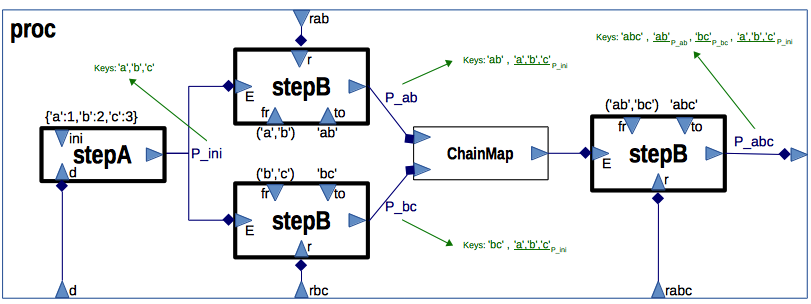
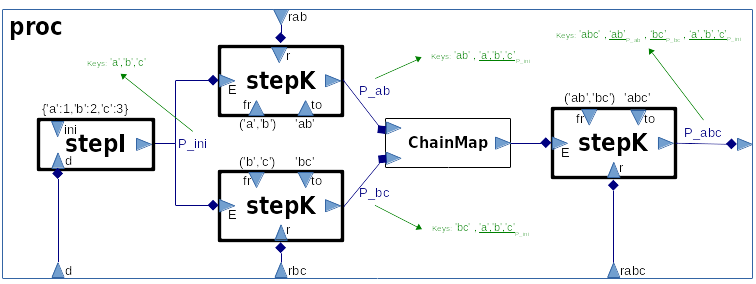
Updates

diff --git a/cache.py b/cache.py
@@ -27,7 +27,7 @@ To illustrate the cross-process capability of the cache, function :func:`demo` r
 
 * Function :func:`vfunc` is assigned a version (here the process id, just to show the behaviour when the version changes). Therefore, the persistent cache creates distinct cache blocks for the distinct versions, and there is no reuse of the cached values from one run to the other.
 
-* Function :func:`proc` builds a closed symbolic expression (instance of :class:`Expr`) which implements the following workflow based on the two cached functions :func:`stepA` and :func:`stepB`.
+* Function :func:`proc` builds a closed symbolic expression (instance of :class:`Expr`) which implements the following workflow based on the two cached functions :func:`stepI` and :func:`stepK`.
 
   .. image:: cache.png
      :scale: 65%
@@ -35,10 +35,10 @@ To illustrate the cross-process capability of the cache, function :func:`demo` r
 
   It consists of 4 tasks:
 
-  * `P_ini`: calls :func:`stepA` which returns an input dictionary with keys `'a'`, `'b'`, `'c'` modified by some constant `d`
-  * `P_ab`: calls :func:`stepB` which chains to the result of the first task (`P_ini`) a dictionary with key `'ab'` assigned the sum of values of keys `'a'` and `'b'` plus some constant `rab`
-  * `P_bc`: calls :func:`stepB` which chains to the result of the first task (`P_ini`) a dictionary with key `'bc'` assigned the sum of values of keys `'b'` and `'c'` plus some constant `rbc`
-  * `P_abc`: calls :func:`stepB` which chains to the chained results of the last two tasks (`P_ab,P_bc`) a dictionary with key `'abc'` assigned the sum of values of keys `'ab'` and `'bc'` plus some constant `rabc`
+  * `P_ini`: calls :func:`stepI` which returns an input dictionary with keys `'a'`, `'b'`, `'c'` modified by some constant `d`
+  * `P_ab`: calls :func:`stepK` which chains to the result of the first task (`P_ini`) a dictionary with key `'ab'` assigned the sum of values of keys `'a'` and `'b'` plus some constant `rab`
+  * `P_bc`: calls :func:`stepK` which chains to the result of the first task (`P_ini`) a dictionary with key `'bc'` assigned the sum of values of keys `'b'` and `'c'` plus some constant `rbc`
+  * `P_abc`: calls :func:`stepK` which chains to the chained results of the last two tasks (`P_ab,P_bc`) a dictionary with key `'abc'` assigned the sum of values of keys `'ab'` and `'bc'` plus some constant `rabc`
 
   Of course, cacheing such simple operations is not very interesting, but the purpose of the example is to illustrate cacheing in the presence of dependencies between arbitrary tasks which could be much more complex (and computationaly heavy). The logged trace of the computation illustrated in the diagram below shows how the evaluation mechanism of symbolic expressions (called incarnation) in class :class:`MapExpr` and that of map chaining in class :class:`collections.ChainMap` interact with persistent cacheing to provide a flexible workflow implementation.
 
@@ -61,11 +61,11 @@ When a cache cell is created by an invocation, any versioned function which appe
 * the calling function ``f`` has a new version;
 * the argument function ``g`` has a new version.
 
-In the example above, the first argument of the persistently cached function :func:`stepB` is typically a symbolic expression (instance of class :class:`Expr`) which contains references at different depths to other functions, in particular :func:`stepA`. So if the latter were versioned and its version changed, the corresponding cache cells for function :func:`stepB` would be missed, even if the version of :func:`stepB` were not changed.
+In the example above, the first argument of the persistently cached function :func:`stepK` is typically a symbolic expression (instance of class :class:`Expr`) which contains references at different depths to other functions, in particular :func:`stepI`. So if the latter were versioned and its version changed, the corresponding cache cells for function :func:`stepK` would be missed, even if the version of :func:`stepK` were not changed.
 
 Persistent cacheing with symbolic expressions for workflow task execution
 .........................................................................
-In a typical workflow task executor (see e.g. function :func:`stepB` in the example above), the first argument *E* is typically an instance of :class:`MapExpr` whose configuration describes all the previous tasks in the workflow. Its incarnation is the set of key-value pairs computed by the previous tasks. The new task typically seeks to enrich this set with some new key-value pairs, based on those of *E*. Since *E* is immutable, it is not possible to directly update it. There are two possibilities: convert *E* into a proper dictionary, or keep *E* as such and use function :func:`collections.ChainMap`::
+In a typical workflow task executor (see e.g. function :func:`stepK` in the example above), the first argument *E* is typically an instance of :class:`MapExpr` whose configuration describes all the previous tasks in the workflow. Its incarnation is the set of key-value pairs computed by the previous tasks. The new task typically seeks to enrich this set with some new key-value pairs, based on those of *E*. Since *E* is immutable, it is not possible to directly update it. There are two possibilities: convert *E* into a proper dictionary, or keep *E* as such and use function :func:`collections.ChainMap`::
 
    def task_exec(E,...):
      ... # compute some update dictionary D from E and the other arguments
@@ -276,11 +276,13 @@ Clears all the blocks which are obsolete.
       return conn.execute('SELECT count(*) FROM Block').fetchone()[0]
 
   def items(self):
+    r"""Returns a view on this instance's blocks."""
     with self.connect(detect_types=sqlite3.PARSE_DECLTYPES) as conn:
       for block,functor in conn.execute('SELECT oid,functor FROM Block'):
         yield block, CacheBlock(db=self,functor=functor,block=block)
 
   def clear(self):
+    r"""Removes all blocks from this instance."""
     with self.connect() as conn:
       conn.execute('DELETE FROM Block')
 
@@ -469,11 +471,13 @@ Implements cacheing as follows:
       return conn.execute('SELECT count(*) FROM Cell WHERE block=?',(self.block,)).fetchone()[0]
 
   def items(self):
+    r"""Returns a view on this instance's cells."""
     with self.db.connect() as conn:
       for row in conn.execute('SELECT oid, ckey, tstamp, hits, size, duration FROM Cell WHERE block=?',(self.block,)):
         yield row[0],row[1:]
 
   def clear(self):
+    r"""Removes all cells from this instance."""
     with self.db.connect() as conn:
       conn.execute('DELETE FROM Cell WHERE block=?',(self.block,))
 

diff --git a/torch.py b/torch.py
@@ -59,7 +59,7 @@ Train runs emit messages during their execution, so can be controlled. Use metho
   r"""[``train``] Each batch is a pair of a tensor of inputs and a tensor of labels (first dim = size of batch)"""
   ## set at execution
   progress: 'float'
-  r"""[``train``\*] Between 0. and 1., stop when 1. is reached"""
+  r"""[``train``] Between 0. and 1., stop when 1. is reached"""
   time: 'Tuple[float,float]'
   r"""[``train``\*] A pair of the walltime and processing time since beginning of run"""
   step: 'int'
@@ -187,7 +187,7 @@ Evaluates a model on some data.
     r"""
 Binds the set of *listeners* (objects) to the events. The list of listeners is processed sequentially. For each listener, the methods of that listener whose name match ``on_`` followed by the name of a supported event are bound to this dispatcher.
 
-:param listeners: list of listener object
+:param listeners: list of listener objects
 :param type: :class:`List[object]`
     """
 #--------------------------------------------------------------------------------------------------
@@ -248,8 +248,8 @@ Instances of this class log information about classification runs into mlflow.
 :type period: :class:`int`
 :param vperiod: validation metrics are logged after this number of batch iterations (repeatedly)
 :type vperiod: :class:`int`
-:param checkpoint_after: the model is logged after this number of epochs (repeatedly)
-:type checkpoint_after: :class:`int`
+:param checkpoint_after: the model is logged at the first epoch end after this number of seconds (repeatedly)
+:type checkpoint_after: :class:`float`
   """
 #==================================================================================================
 

diff --git a/doc/conf.py b/doc/conf.py
@@ -48,7 +48,7 @@ master_doc = 'index'
 
 # General information about the project.
 project = 'PYTOOLS'
-copyright = '2014-2018, Jean-Marc Andreoli'
+copyright = '2014-2020, Jean-Marc Andreoli'
 
 # The version info for the project you're documenting, acts as replacement for
 # |version| and |release|, also used in various other places throughout the
